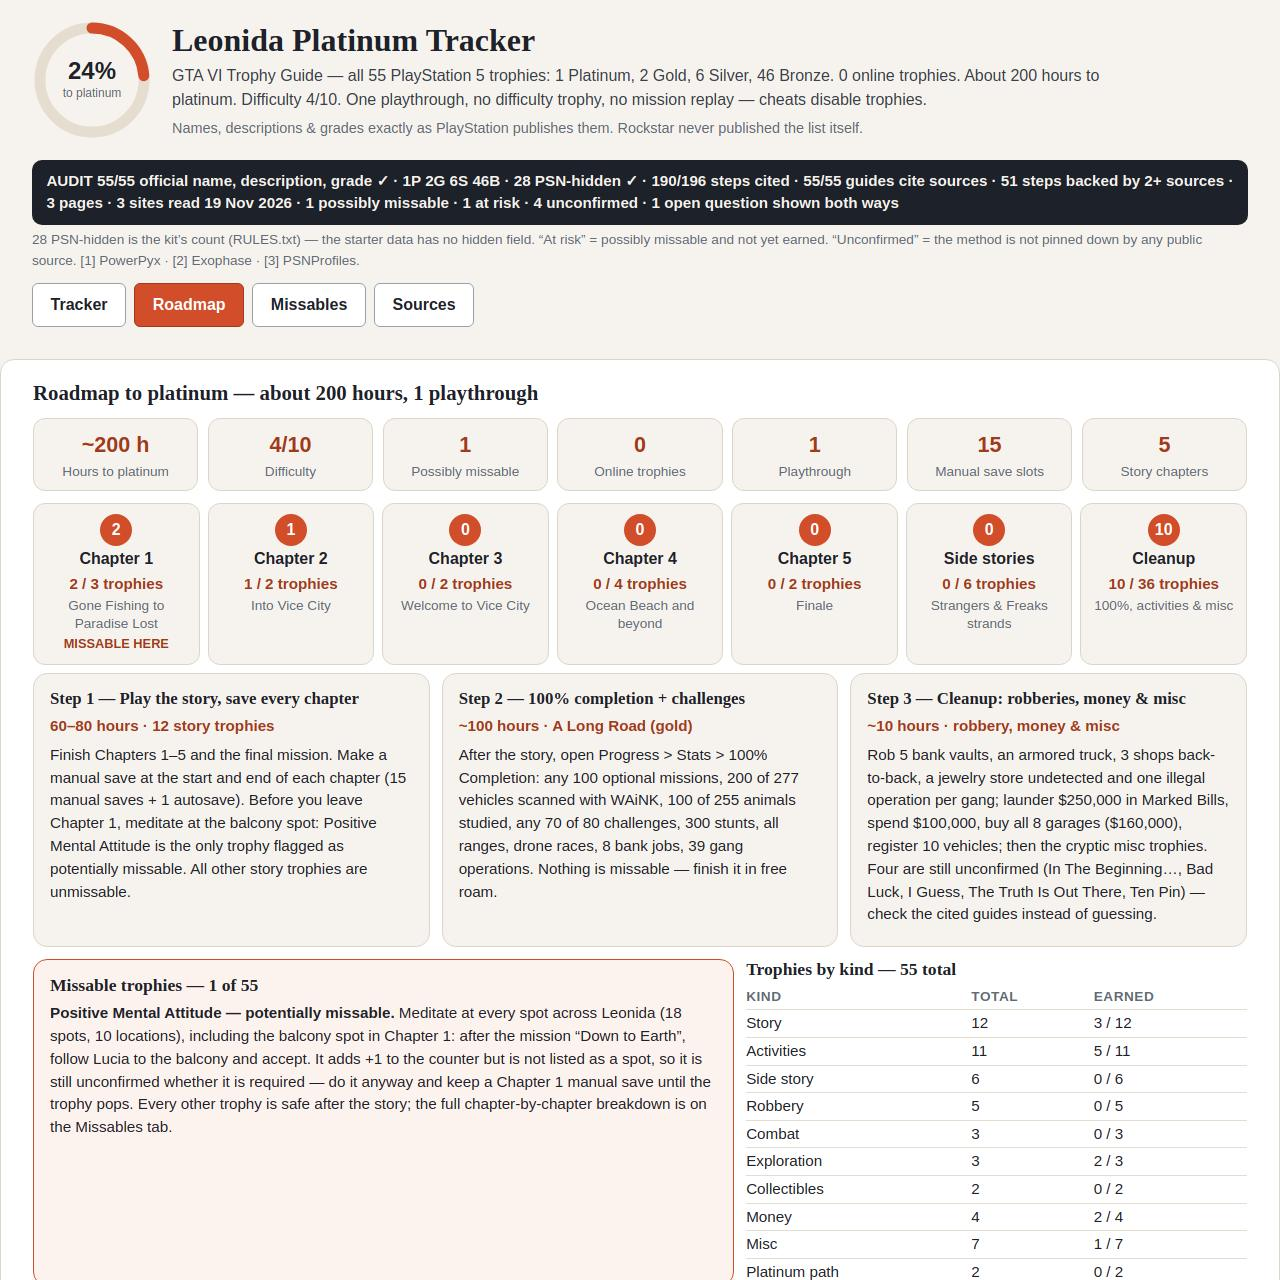
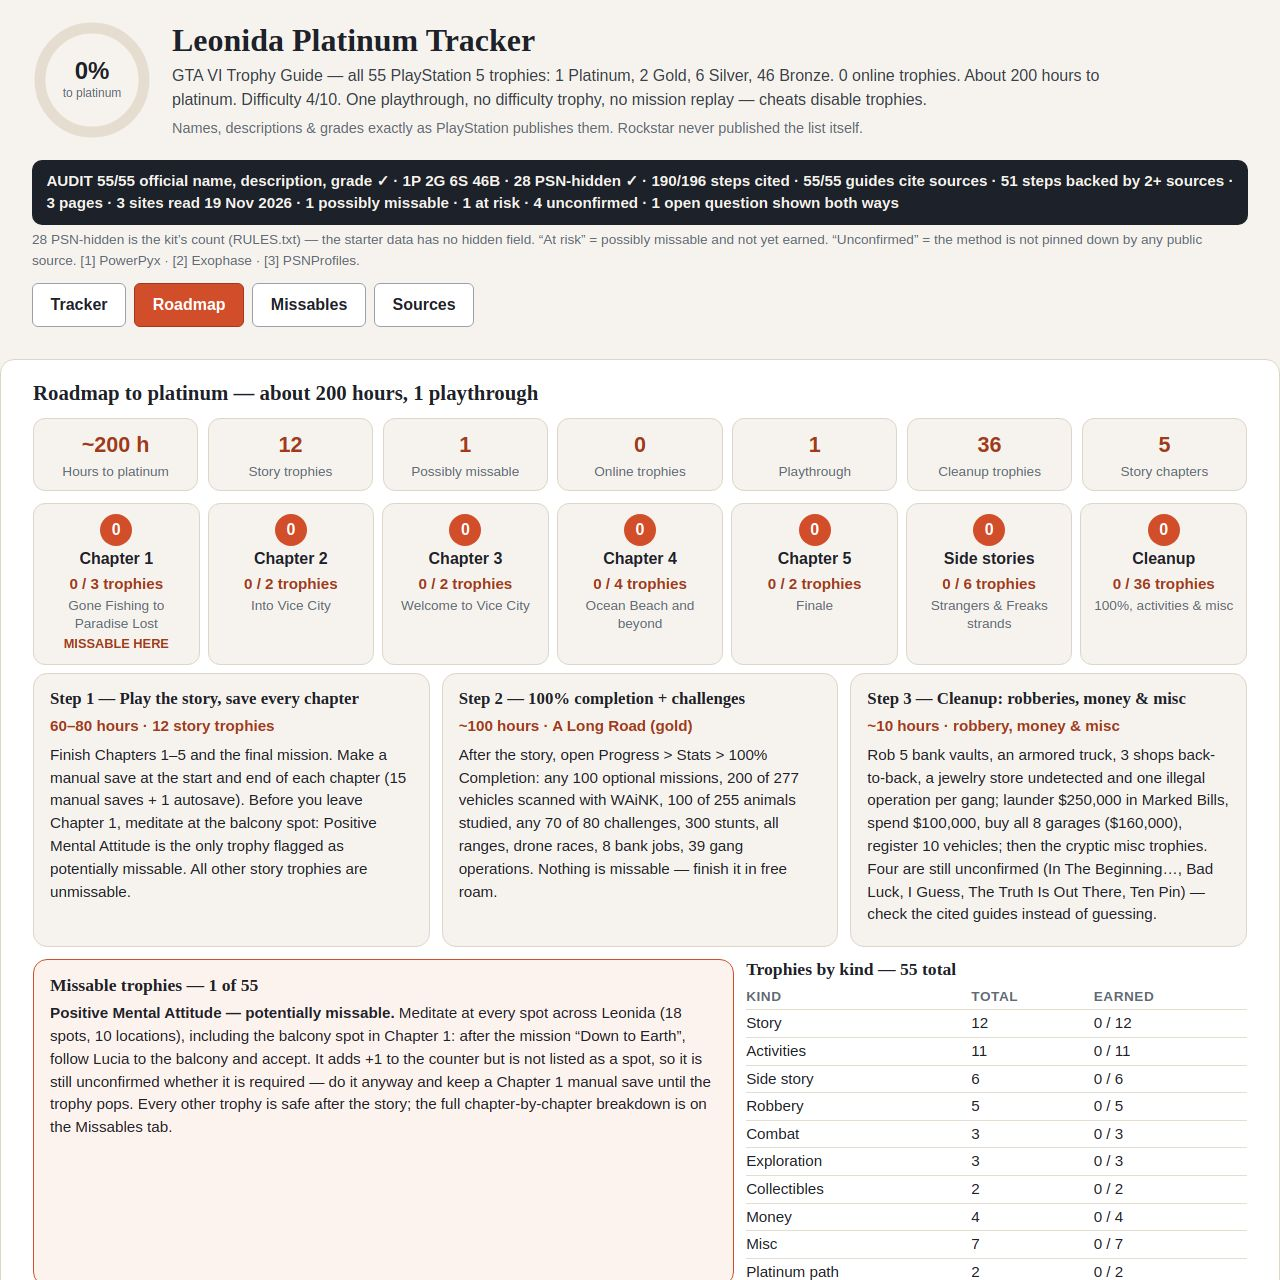
Leonida trophy guide round 5: replace 2 hardcoded roadmap stat cards with computed counts
'4/10 Difficulty' and '15 Manual save slots' were copied verbatim from
the top-rank #3 teardown example and exist nowhere in the data
(trophies.json/chapters.json have neither difficulty nor save slots).
Replaced with counts computed from the data: 12 story trophies
(trophies.json kind=story) and 36 cleanup trophies (chapters.json
Cleanup chapter trophyIds). Shot 2 retaken (1280x1280, 253931 B);
dossier sha256 c8cf1674a1e67ec83cc903f7b6945f338ddeeebc452a11c0630173c6d216a81e
(2x identical). No other app changes.

diff --git a/app/app.js b/app/app.js
@@ -82,11 +82,11 @@ function renderRoadmapStats() {
   const storyChapters = chapters.filter((c) => /^Chapter [1-5]$/.test(c.label)).length;
   const cards = [
     ['~200 h', 'Hours to platinum'],
-    ['4/10', 'Difficulty'],
+    ['12', 'Story trophies'],
     [String(a.missable), 'Possibly missable'],
     ['0', 'Online trophies'],
     ['1', 'Playthrough'],
-    ['15', 'Manual save slots'],
+    ['36', 'Cleanup trophies'],
     [String(storyChapters), 'Story chapters'],
   ];
   el.replaceChildren();
